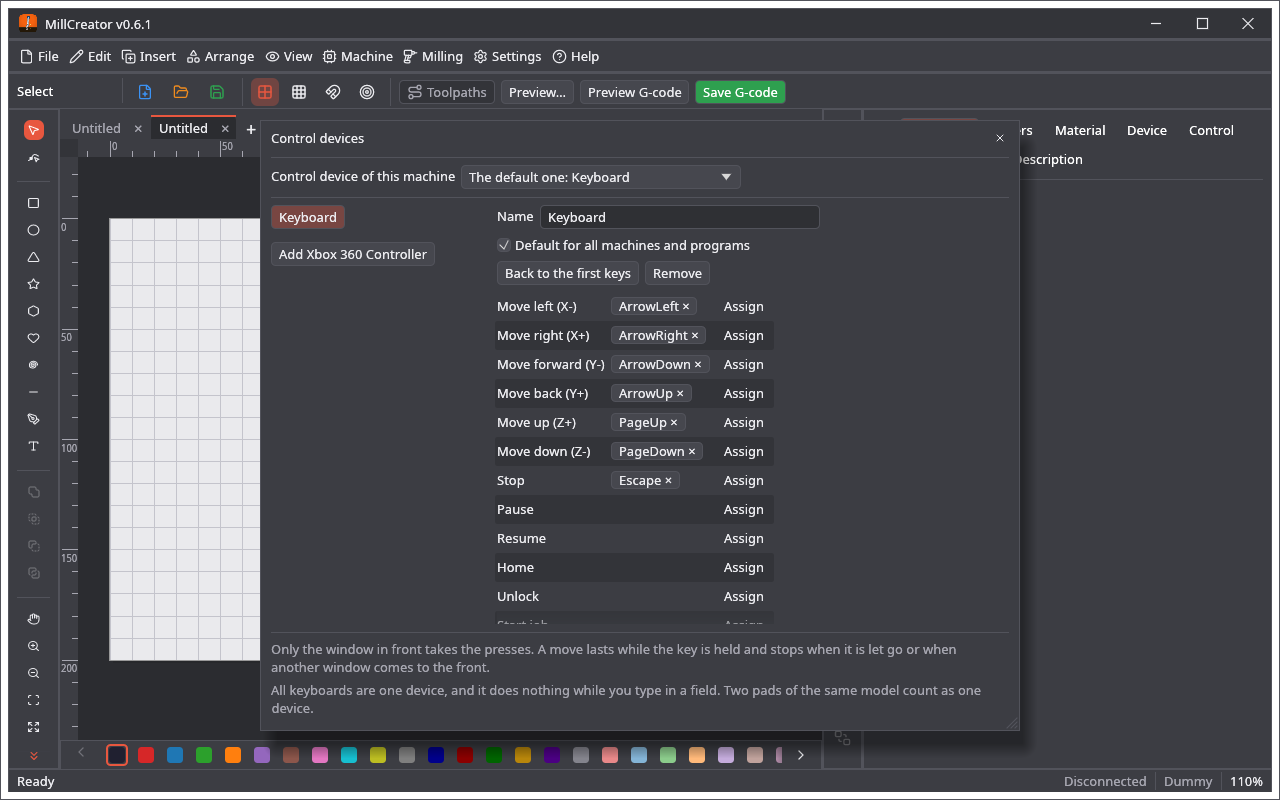
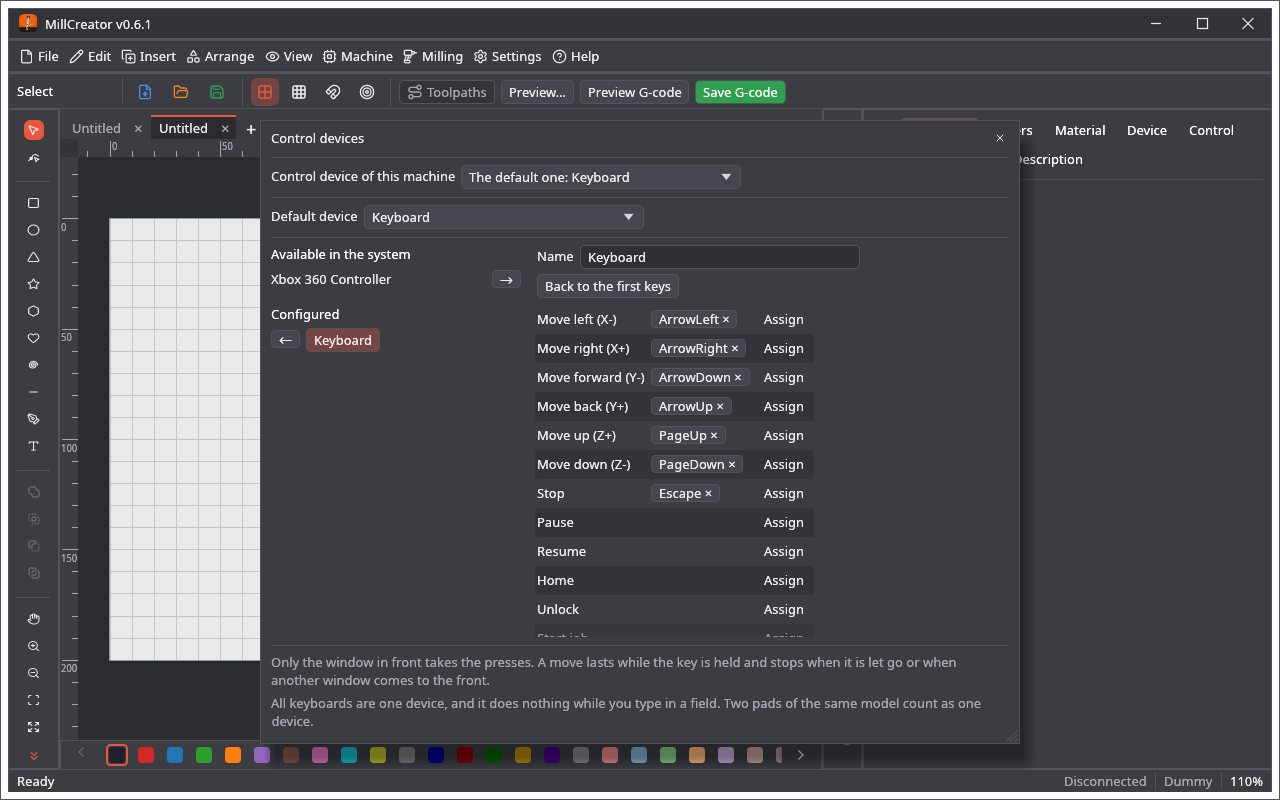
Shared camera page, cameras of the computer in the builds, copyable messages; pin base v1.69.5

Changed region(s): [[0.1875, 0.25, 0.8125, 0.9688], [0.1875, 0.25, 0.3438, 0.4375]]

diff --git a/crates/millcreator/src/device_ui.rs b/crates/millcreator/src/device_ui.rs
@@ -2,7 +2,6 @@
 //! editor and the camera view of the device.
 use crate::device::{self, Device, Origin, DUMMY_NAME, MAX_DEVICES};
 use crate::App;
-use base_core::camimg::{CameraKind, CameraSource};
 use base_core::machine::{GrblVersion, LinkKind, RotaryKind, Streaming};
 use base_core::units::Units;
 use base_ui::editor::EditorHost;
@@ -222,6 +221,10 @@ impl App {
 
     /// The window that adds or changes a device.
     pub(crate) fn device_window(&mut self, ctx: &egui::Context) {
+        if let Some(cam) = self.cam_test_wanted.take() {
+            self.cam_test = base_ui::camera_feed::CamTest::start(cam, ctx);
+        }
+        base_ui::camera_feed::CamTest::window(ctx, &mut self.cam_test);
         let Some(mut edit) = self.dev_edit.take() else { return };
         let mut open = true;
         let mut save = false;
@@ -526,7 +529,7 @@ impl App {
                         ui.add_space(4.0);
                         ui.label(RichText::new(tr("With a rotary attachment the Y axis turns the work: the drawing may not be higher than the way round the workpiece. The model is simple (a chuck turns by the workpiece diameter, rollers move the surface like their own); a real machine needs testing.")).color(theme::text_dim()));
                     }
-                    Page::Camera => camera_page(ui, d),
+                    Page::Camera => base_ui::camera_feed::camera_page(ui, &mut d.cameras, &mut d.active_camera, &mut self.cam_test_wanted),
                     Page::Notes => {
                         ui.add(egui::TextEdit::multiline(&mut d.notes).desired_rows(10).desired_width(f32::INFINITY).hint_text(tr("Notes about this machine")));
                     }
@@ -748,70 +751,9 @@ impl App {
     }
 }
 
-fn camera_page(ui: &mut egui::Ui, d: &mut Device) {
-    let mut remove = None;
-    for (i, c) in d.cameras.iter_mut().enumerate() {
-        ui.group(|ui| {
-            ui.horizontal(|ui| {
-                ui.checkbox(&mut c.enabled, "").on_hover_text(tr("Switched on"));
-                ui.add(egui::TextEdit::singleline(&mut c.name).hint_text(tr("Camera name")).desired_width(200.0));
-                if base_ui::window::delete_icon(ui, &tr("Delete this camera")).clicked() {
-                    remove = Some(i);
-                }
-            });
-            ui.horizontal(|ui| {
-                let local = matches!(c.kind, CameraKind::Local(_));
-                let mut want_local = local;
-                ui.radio_value(&mut want_local, false, tr("Address"));
-                ui.radio_value(&mut want_local, true, tr("Camera of this computer"));
-                if want_local != local {
-                    c.kind = if want_local { CameraKind::Local(0) } else { CameraKind::Url(String::new()) };
-                }
-            });
-            match &mut c.kind {
-                CameraKind::Url(u) => {
-                    ui.add(egui::TextEdit::singleline(u).hint_text("http://raspberrypi.local:8080/stream.mjpg").desired_width(340.0));
-                    if !u.trim().is_empty() && !base_core::camimg::valid_url(u) {
-                        ui.label(RichText::new(tr("Not a camera address (http, https, rtsp, udp, rtp or rtmp).")).color(Color32::from_rgb(0xc0, 0x30, 0x30)));
-                    }
-                }
-                CameraKind::Local(n) => {
-                    ui.horizontal(|ui| {
-                        ui.label(tr("Camera number"));
-                        ui.add(egui::DragValue::new(n).range(0..=15));
-                    });
-                }
-            }
-            base_ui::camera_feed::stream_options_ui(ui, c);
-            ui.horizontal(|ui| {
-                ui.label(tr("Camera rotation"));
-                for q in 0..4u8 {
-                    ui.selectable_value(&mut c.rotation, q, format!("{}°", q as u32 * 90));
-                }
-            });
-        });
-    }
-    if let Some(i) = remove {
-        d.cameras.remove(i);
-        d.active_camera = d.active_camera.min(d.cameras.len().saturating_sub(1));
-    }
-    if d.cameras.len() < 8 && ui.button(tr("Add a camera")).clicked() {
-        d.cameras.push(CameraSource::url(&tr("Camera"), "", 0));
-    }
-    if d.cameras.len() > 1 {
-        ui.horizontal(|ui| {
-            ui.label(tr("Shown in the Camera tab"));
-            egui::ComboBox::from_id_salt("dev_active_cam").selected_text(d.cameras.get(d.active_camera).map(|c| c.name.clone()).unwrap_or_default()).show_ui(ui, |ui| {
-                for (i, c) in d.cameras.iter().enumerate() {
-                    ui.selectable_value(&mut d.active_camera, i, &c.name);
-                }
-            });
-        });
-    }
-}
-
 #[cfg(test)]
 mod tests {
+    use base_core::camimg::CameraSource;
     use super::*;
 
     fn app() -> App {

diff --git a/crates/millcreator/src/main.rs b/crates/millcreator/src/main.rs
@@ -367,6 +367,8 @@ struct App {
     machine: MachineLink,
     control_ui: ControlUi,
     control_devices: base_ui::control_devices_ui::ControlDevicesUi,
+    cam_test: Option<base_ui::camera_feed::CamTest>,
+    cam_test_wanted: Option<base_core::camimg::CameraSource>,
     fw_open: bool,
     tls_ui: TlsUi,
     cal: CalUi,
@@ -516,6 +518,8 @@ impl App {
             },
             control_ui: ControlUi::default(),
             control_devices: if cfg!(test) { Default::default() } else { base_ui::control_devices_ui::ControlDevicesUi::from_file() },
+            cam_test: None,
+            cam_test_wanted: None,
             fw_open: false,
             tls_ui: TlsUi::default(),
             cal: CalUi::default(),
@@ -990,7 +994,7 @@ impl App {
 
     fn status_bar(&mut self, ui: &mut egui::Ui) {
         ui.horizontal_centered(|ui| {
-            ui.label(&self.status);
+            base_ui::widgets::message(ui, self.status.as_str());
             ui.with_layout(egui::Layout::right_to_left(egui::Align::Center), |ui| {
                 base_ui::editor::zoom_and_cursor(self, ui);
                 ui.separator();
@@ -1545,7 +1549,9 @@ impl MenuHost for App {
             Act::Quit => self.request_close(ctx),
             Act::Std(s) => {
                 if self.screen == Screen::Editor {
-                    s.run(self)
+                    if !base_ui::menu::goes_to_text_field(ctx, s) {
+                        s.run(self)
+                    }
                 }
             }
             Act::ViewOptions => self.show_options = true,

diff --git a/docs/wiki/Urzadzenia-i-kamery.md b/docs/wiki/Urzadzenia-i-kamery.md
@@ -55,3 +55,7 @@ Projekt zapisuje migawkę urządzenia, dla którego powstał (nazwa i trzy rozmi
 * Pod obrazem widoku kamery: **Zrób zdjęcie** (JPEG), **Nagraj wideo** / **Zatrzymaj nagrywanie** (linia obok liczy sekundy, a dla AVI obrazy) i **Poklatkowe**: **Co** N sekund albo **Po każdej warstwie** (zdjęcie, gdy zaczyna się następna warstwa zadania i gdy zadanie się kończy; wymaga zadania wysłanego do maszyny z programu przyciskiem **Start**), potem **Uruchom poklatkowe** / **Zatrzymaj poklatkowe**. Nagrywanie trwa, gdy widok kamery jest zamknięty lub ukryty.
 * **Dokąd trafiają pliki.** Bez wybranego folderu trafiają do folderu **`camera` obok pliku projektu**; gdy ten folder już istnieje, do pierwszego wolnego z `camera00`, `camera01`, … (i do tego samego folderu przez resztę uruchomienia). Projekt, który nie był jeszcze zapisany, używa folderu `camera` wspólnego folderu danych. Wiersz **Folder** pokazuje, dokąd trafi następny plik, a **Wybierz folder…** ustawia jeden folder na wszystko (pamiętany dla wszystkich programów, razem z formatem wideo i ustawieniami poklatkowego, w `camera_recording.json` we wspólnym folderze danych).
 * **Nazwy plików** zaczynają się nazwą pliku projektu i są numerowane: `box-photo-0001.jpg`, `box-video-0001.mp4` (albo `.avi`); poklatkowe dostaje własny folder (`box-timelapse-0001`) z `box-frame-00001.jpg` (co N sekund) albo `box-layer-00001.jpg` (po każdej warstwie). Bez pliku projektu nazwy nie mają przedrostka (`photo-0001.jpg`).
+
+## macOS: „No route to host”
+
+macOS nie dopuszcza programów do sieci lokalnej, dopóki ich nie zezwolisz, a nowo zbudowany lub zaktualizowany program może wymagać ponownej zgody. Jeśli sterownika albo kamery w sieci nie da się osiągnąć, a komunikat mówi *No route to host*, otwórz **Ustawienia systemowe → Prywatność i ochrona → Sieć lokalna** i włącz program (gdy uruchamiasz go z terminala: terminal). Jeśli jest już włączony, wyłącz go i włącz ponownie, a potem uruchom program od nowa.

diff --git a/docs/wiki/Devices-and-Cameras.md b/docs/wiki/Devices-and-Cameras.md
@@ -55,3 +55,7 @@ The project keeps a snapshot of the device it was made for (name and the three s
 * Under the picture of the camera view: **Take a photo** (a JPEG), **Record video** / **Stop recording** (the line beside it counts the seconds, and the pictures of an AVI) and the **Time-lapse**: **Every** N seconds, or **After each layer** (a picture when the next layer of the job begins and when the job ends; it needs a job sent to the machine from the program with **Start**), then **Start time-lapse** / **Stop time-lapse**. A recording goes on while the camera view is closed or hidden.
 * **Where the files go.** Without a folder chosen, they go to a folder **`camera` next to the project file**; when that folder is there already, to the first free one of `camera00`, `camera01`, … (and the same folder for the rest of the run). A project that has not been saved yet uses the folder `camera` of the shared data folder. The line **Folder** shows where the next file goes, and **Choose the folder…** sets one folder for everything (kept for all the programs, with the video format and the time-lapse settings, in `camera_recording.json` in the shared data folder).
 * **The names of the files** start with the name of the project file and are numbered: `box-photo-0001.jpg`, `box-video-0001.mp4` (or `.avi`); a time-lapse gets a folder of its own (`box-timelapse-0001`) with `box-frame-00001.jpg` (every N seconds) or `box-layer-00001.jpg` (after each layer). Without a project file the names have no prefix (`photo-0001.jpg`).
+
+## macOS: "No route to host"
+
+macOS keeps programs off the local network until they are allowed, and a newly built or updated program may have to be allowed again. If a controller or camera on your network cannot be reached and the message says *No route to host*, open **System Settings → Privacy & Security → Local Network** and switch the program on (when you start it from a terminal: the terminal). If it is on already, switch it off and on, then start the program again.

diff --git a/docs/wiki/Urzadzenia-sterujace.md b/docs/wiki/Urzadzenia-sterujace.md
@@ -6,9 +6,11 @@ Maszyną można sterować padem USB albo klawiaturą. **Maszyna → Urządzenia 
 
 ## Urządzenia
 
-* **Dodaj klawiaturę** dodaje klawiaturę. Wszystkie klawiatury komputera to jedno urządzenie, bo system nie mówi oknu, która została naciśnięta.
-* **Dodaj** z nazwą pada dodaje podłączony pad. Każdy model pada to urządzenie z własnymi klawiszami; dwa pady tego samego modelu liczą się jako jedno.
-* **Domyślne dla wszystkich maszyn i programów** sprawia, że tego urządzenia używa każda maszyna bez własnego. Pierwsze dodane urządzenie staje się domyślne.
+Okno ma dwie listy. **Dostępne w systemie** pokazuje klawiaturę i podłączone pady, które nie są jeszcze ustawione, a **Skonfigurowane** te, które są. Strzałka przenosi urządzenie z jednej listy na drugą. Urządzenie przeniesione z powrotem zachowuje klawisze na wypadek ponownego dodania.
+
+* Wszystkie klawiatury komputera to jedno urządzenie, bo system nie mówi oknu, która została naciśnięta.
+* Każdy model pada to urządzenie z własnymi klawiszami; dwa pady tego samego modelu liczą się jako jedno.
+* **Domyślne urządzenie** wybiera to, którego używają wszystkie maszyny i programy, o ile maszyna nie ma własnego, albo **Brak domyślnego urządzenia**. Pierwsze skonfigurowane urządzenie staje się domyślne.
 
 Urządzenia i wybór domyślnego są wspólne dla LightCreatora, MillCreatora i PenCreatora. Zmiana w jednym programie dociera do pozostałych w ciągu sekundy.
 

diff --git a/VERSIONS.md b/VERSIONS.md
@@ -8,6 +8,11 @@ Each release gets the next version number. Newest first.
 * **Project on the material** in the 3D view: the shapes of the drawing over the top of the material, in the colour of their layer.
 * **New colour schemes:** Superman, Batman, and Joker in a dark and a light version.
 * No more compiler warnings when building.
+* **Cameras:** the camera of the computer now works in the released programs (it was left out of the builds, so it said this version cannot use it); macOS asks for the permission.
+* **The page of the cameras** is the same as in LightCreator: the test of a camera, the picture settings and the lens correction are new.
+* **Messages can be copied:** select the text of a message or the status line with the mouse, or use **Copy** on the right button.
+* **macOS:** when the system blocks a controller or a camera on the local network, the message says where to allow the program (*Privacy & Security → Local Network*).
+* **Edit → Copy and Paste** of the menu work in a text field; they copied and pasted shapes of the drawing.
 
 ## v0.6.0
 
